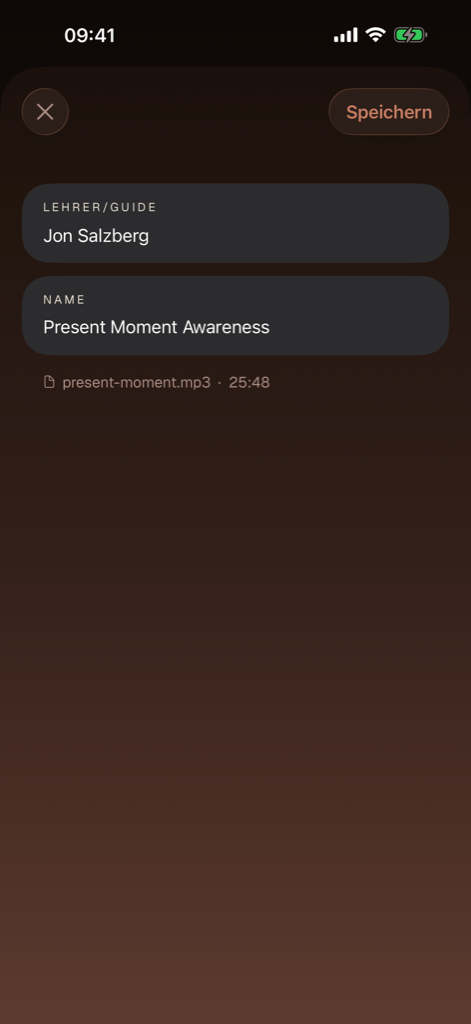
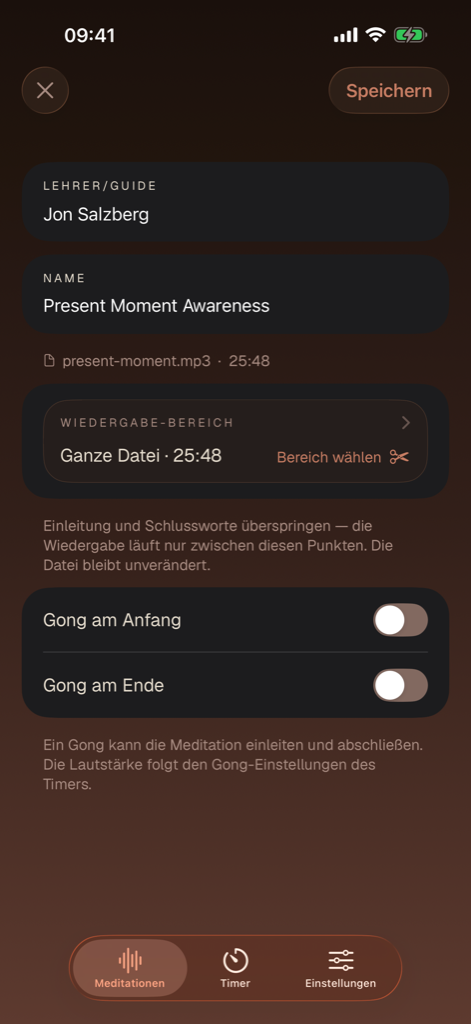
docs: Design-System + Website auf aktuelle Dark-Mode-Screens
Design-System (dev-docs/reference/design-system): 15 Screens, iPhone 17 Pro
Max, de-DE, Dark Mode. settings.png -> interval-gongs.png; neu: app-settings,
gong-selection, soundscape, library-search, import-guide, trim-editor,
preparation, completion, empty-library. README/index.html/Doku angepasst.

Website (docs): Player auf neuen Waveform-Player aktualisiert; Import-
Anleitung, Gong-Auswahl und Soundscape ergaenzt; timer-settings entfernt.
process-screenshots.sh mappt jetzt die 8 Website-Screens.

diff --git a/dev-docs/reference/design-system/index.html b/dev-docs/reference/design-system/index.html
@@ -123,14 +123,23 @@
 
   <!-- ============ SCREENS ============ -->
   <section>
-    <div class="sec-head"><h2>Screens</h2><span class="mono">iPhone · de-DE</span></div>
+    <div class="sec-head"><h2>Screens</h2><span class="mono">iPhone 17 Pro Max · de-DE · Dark</span></div>
     <div class="screens">
       <div class="shot"><img src="screens/library.png" alt="Bibliothek"><div class="cap">Bibliothek</div><div class="sub">Kern-Feature · Tab 1</div></div>
-      <div class="shot"><img src="screens/player.png" alt="Player"><div class="cap">Player</div><div class="sub">Geführte Meditation</div></div>
-      <div class="shot"><img src="screens/edit.png" alt="Bearbeiten"><div class="cap">Bearbeiten</div><div class="sub">Metadaten &amp; Trim</div></div>
+      <div class="shot"><img src="screens/empty-library.png" alt="Leere Bibliothek"><div class="cap">Leere Bibliothek</div><div class="sub">Erststart</div></div>
+      <div class="shot"><img src="screens/library-search.png" alt="Suche"><div class="cap">Suche</div><div class="sub">Volltextsuche</div></div>
+      <div class="shot"><img src="screens/import-guide.png" alt="Import-Anleitung"><div class="cap">Import-Anleitung</div><div class="sub">Eigene MP3s finden</div></div>
+      <div class="shot"><img src="screens/player.png" alt="Player"><div class="cap">Player</div><div class="sub">Waveform-Wiedergabe</div></div>
+      <div class="shot"><img src="screens/edit.png" alt="Bearbeiten"><div class="cap">Bearbeiten</div><div class="sub">Metadaten</div></div>
+      <div class="shot"><img src="screens/trim-editor.png" alt="Trim-Editor"><div class="cap">Trim-Editor</div><div class="sub">Wiedergabebereich</div></div>
       <div class="shot"><img src="screens/timer-idle.png" alt="Timer Leerlauf"><div class="cap">Timer</div><div class="sub">Stille Meditation · Tab 2</div></div>
-      <div class="shot"><img src="screens/timer-running.png" alt="Timer läuft"><div class="cap">Timer läuft</div><div class="sub">Countdown &amp; Fortschrittsring</div></div>
-      <div class="shot"><img src="screens/settings.png" alt="Einstellungen"><div class="cap">Einstellungen</div><div class="sub">Erscheinungsbild &amp; Sprache</div></div>
+      <div class="shot"><img src="screens/timer-running.png" alt="Timer läuft"><div class="cap">Timer läuft</div><div class="sub">Countdown &amp; Mondphase</div></div>
+      <div class="shot"><img src="screens/preparation.png" alt="Vorbereitung"><div class="cap">Vorbereitung</div><div class="sub">Einstimm-Zeit</div></div>
+      <div class="shot"><img src="screens/gong-selection.png" alt="Gong-Auswahl"><div class="cap">Gong-Auswahl</div><div class="sub">Start- &amp; End-Gong</div></div>
+      <div class="shot"><img src="screens/interval-gongs.png" alt="Intervall-Gongs"><div class="cap">Intervall-Gongs</div><div class="sub">Wiederkehrende Gongs</div></div>
+      <div class="shot"><img src="screens/soundscape.png" alt="Soundscape"><div class="cap">Soundscape</div><div class="sub">Hintergrundklang</div></div>
+      <div class="shot"><img src="screens/app-settings.png" alt="Einstellungen"><div class="cap">Einstellungen</div><div class="sub">Erscheinungsbild · Tab 3</div></div>
+      <div class="shot"><img src="screens/completion.png" alt="Abschluss"><div class="cap">Abschluss</div><div class="sub">Nach der Sitzung</div></div>
     </div>
   </section>
 

diff --git a/docs/index.html b/docs/index.html
@@ -110,6 +110,7 @@
         </div>
         <div class="split-screenshots">
             <img src="images/screenshots/library-edit.png" alt="Edit meditation details">
+            <img src="images/screenshots/import-guide.png" alt="Where to find meditations">
         </div>
     </section>
 
@@ -124,7 +125,8 @@
         <div class="split-screenshots">
             <img src="images/screenshots/timer-main.png" alt="Timer">
             <img src="images/screenshots/timer-running.png" alt="Timer Running">
-            <img src="images/screenshots/timer-settings.png" alt="Settings">
+            <img src="images/screenshots/gong-selection.png" alt="Gong selection">
+            <img src="images/screenshots/soundscape.png" alt="Background sounds">
         </div>
     </section>
 

diff --git a/dev-docs/reference/design-system/still-moment-design.md b/dev-docs/reference/design-system/still-moment-design.md
@@ -5,8 +5,8 @@
 Konsolidierte Design-Referenz für Still Moment: App-Beschreibung, Screens, Farb-Tokens,
 Typografie und Richtlinien. Aus dem Code extrahiert — bei Code-Änderungen aktualisieren.
 
-Die zugehörigen Screenshots (`library.png`, `player.png`, `edit.png`, `timer-idle.png`,
-`timer-running.png`, `settings.png`) können als Bilddateien zusätzlich ins Projekt gelegt werden.
+Die zugehörigen Screenshots liegen in `screens/` (iPhone 17 Pro Max, de-DE, Dark Mode) und
+decken alle 15 dokumentierten Screens ab.
 
 Quellen: `ThemeColors+Palettes.swift`, `TextStyle.swift`, `CLAUDE.md`, `ux-conventions.md`.
 
@@ -37,16 +37,37 @@ währenddessen passiert nichts anderes.
 
 ## Screens
 
-| Screen | Rolle |
-|--------|-------|
-| Bibliothek | Kern-Feature, Tab 1 — persönliche Sammlung eigener Audios |
-| Player | Wiedergabe geführter Meditationen |
-| Bearbeiten | Metadaten (Titel, Lehrer), Wiedergabebereich (Trim), Gong-Rahmen |
-| Timer | Stille Meditation, Tab 2 — 1–60 Min, Vorbereitung, Gongs, Soundscape, Intervalle |
-| Timer läuft | Großer Countdown + kreisförmiger Fortschrittsring |
-| Einstellungen | Erscheinungsbild (System/Hell/Dunkel), Sprache |
+Screenshots in `screens/` (iPhone 17 Pro Max, de-DE, Dark Mode) — 15 Screens.
 
-Screenshots: `assets/screens/` (iPhone, de-DE).
+### Bibliothek (Tab 1 — Kern-Feature)
+
+| Screen | Datei | Rolle |
+|--------|-------|-------|
+| Bibliothek | `library.png` | Persönliche Sammlung eigener Audios, nach Lehrer gruppiert |
+| Leere Bibliothek | `empty-library.png` | Erststart vor dem ersten Import |
+| Suche | `library-search.png` | Volltextsuche über die Sammlung |
+| Import-Anleitung | `import-guide.png` | Woher eigene MP3s kommen (Browser/Dateien + Quellen) |
+| Player | `player.png` | Wiedergabe: scrollendes Waveform, Restzeit, Mini-Übersicht, Pause |
+| Bearbeiten | `edit.png` | Metadaten (Titel, Lehrer), Dateibezug |
+| Trim-Editor | `trim-editor.png` | Wiedergabebereich (Anfang/Ende) zuschneiden |
+
+### Timer (Tab 2 — Stille Meditation)
+
+| Screen | Datei | Rolle |
+|--------|-------|-------|
+| Timer | `timer-idle.png` | 1–60 Min, Atemkreis, Konfig-Zeilen |
+| Timer läuft | `timer-running.png` | Großer Countdown + Mondphasen-Fortschritt |
+| Vorbereitungszeit | `preparation.png` | Einstimm-Zeit vor dem Start |
+| Gong-Auswahl | `gong-selection.png` | Start-/End-Gong: Klang-Karten + Lautstärke |
+| Intervall-Gongs | `interval-gongs.png` | Wiederkehrende Gongs während der Sitzung |
+| Soundscape | `soundscape.png` | Hintergrundklang (Stille, Wald, Regen, eigene) |
+
+### Einstellungen (Tab 3) & Übergreifend
+
+| Screen | Datei | Rolle |
+|--------|-------|-------|
+| Einstellungen | `app-settings.png` | Erscheinungsbild (System/Hell/Dunkel), Vorbereitung, Info |
+| Abschluss | `completion.png` | Dank-Bildschirm nach Ende einer Sitzung (Timer & Player) |
 
 ---
 

diff --git a/dev-docs/reference/design-system/README.md b/dev-docs/reference/design-system/README.md
@@ -13,7 +13,7 @@ Stand, nicht offene Entwürfe.
 |-------|-------|
 | `still-moment-design.md` | **Die Referenz** — alles in Markdown (App, Screens, Tokens, Typo, Richtlinien). |
 | `index.html` | Browsbare Version derselben Inhalte: echte App-Fonts gerendert, Farbfelder, Screenshots. Im Browser öffnen. |
-| `screens/` | 6 Screenshots (iPhone, de-DE): `library`, `player`, `edit`, `timer-idle`, `timer-running`, `settings`. |
+| `screens/` | 15 Screenshots (iPhone 17 Pro Max, de-DE, Dark Mode) — alle App-Screens (Bibliothek, Suche, Player, Bearbeiten, Trim, Import-Anleitung, Timer idle/läuft, Vorbereitung, Gong, Intervall-Gongs, Soundscape, Einstellungen, Abschluss, leere Bibliothek). |
 | `fonts/` | Die echten App-Fonts (Geist, Newsreader) — nur für die `index.html`-Darstellung. |
 
 ## In ein claude.ai-Projekt hochladen
@@ -21,7 +21,7 @@ Stand, nicht offene Entwürfe.
 Damit Claude den **Ist-Stand** kennt (und ihn von offenen Entwürfen unterscheidet), genügt:
 
 1. `still-moment-design.md` — die eigentliche Referenz, die Claude liest.
-2. Die 6 PNGs aus `screens/` — geben den visuellen Kontext.
+2. Die 15 PNGs aus `screens/` — geben den visuellen Kontext.
 
 Die `index.html` und `fonts/` sind für *menschliches* Browsen im Repo gedacht; für den
 claude.ai-Upload sind sie nicht nötig (Claude liest die Markdown sauberer als HTML-Quelltext).
